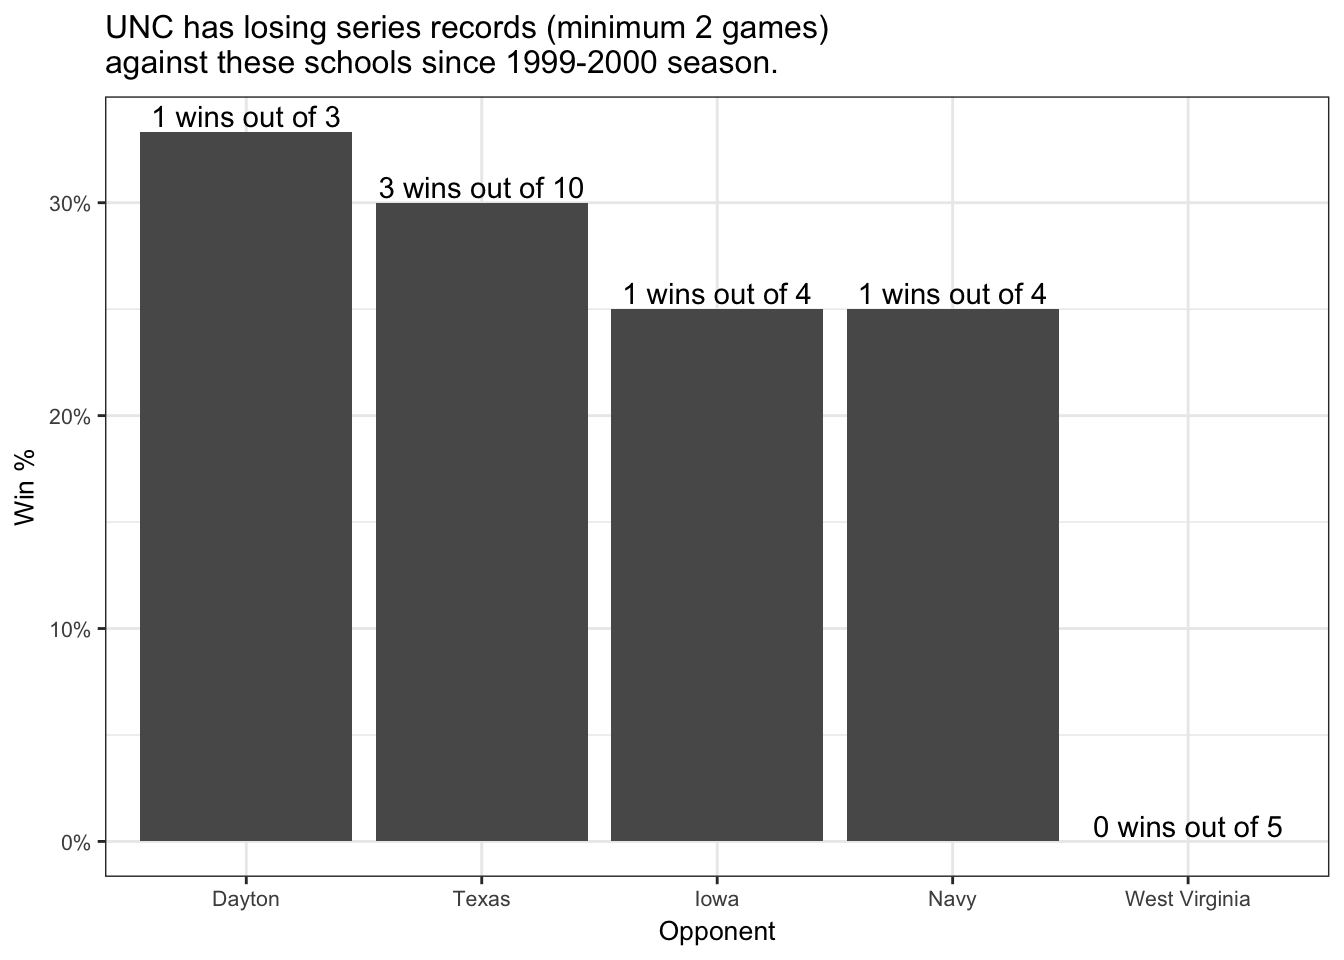
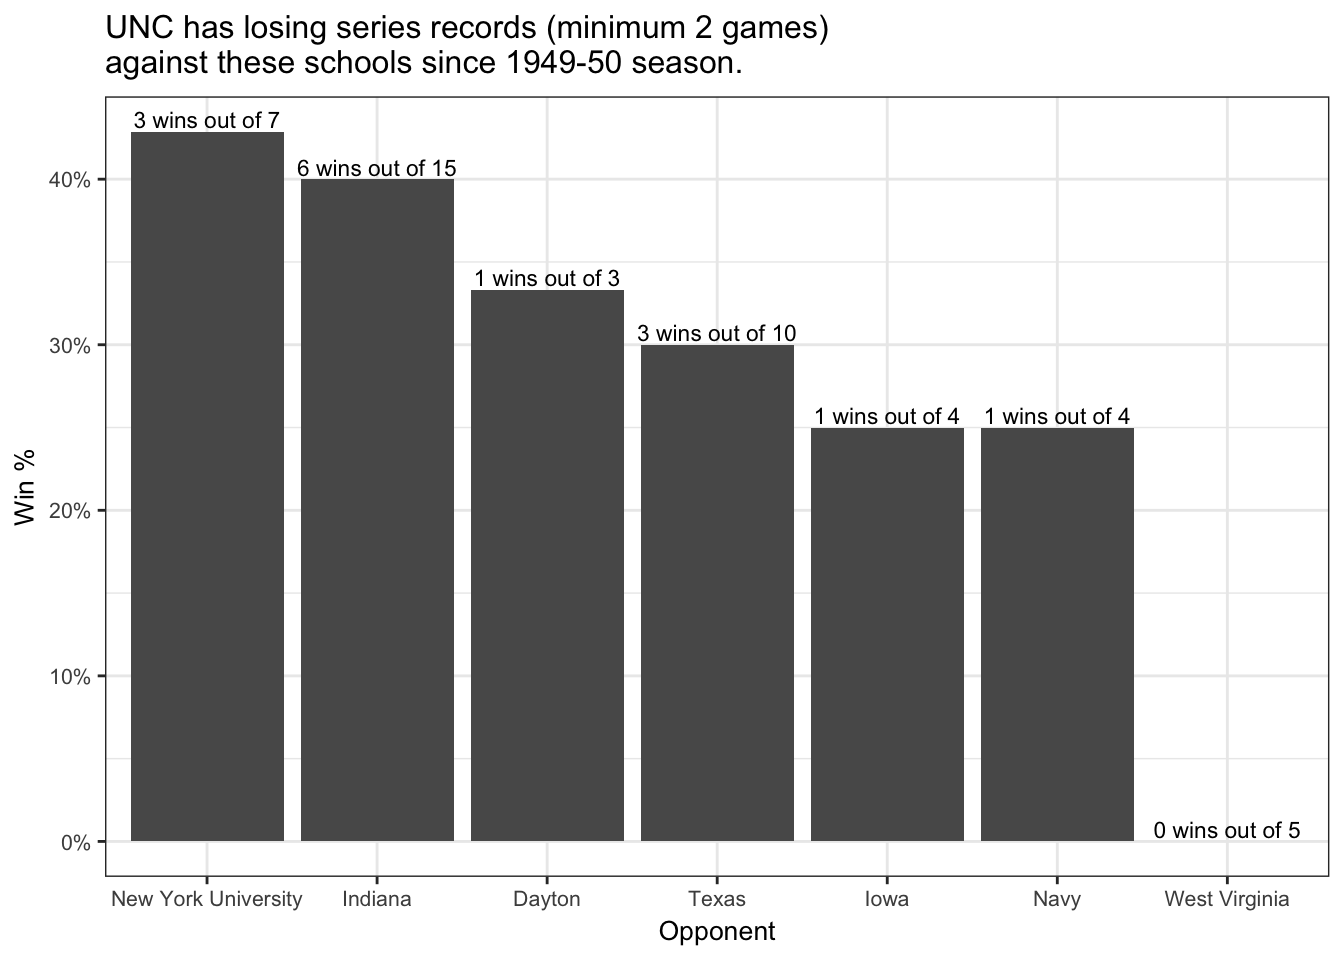
Fix to post: losing series

diff --git a/public/post/losing-series/index.html b/public/post/losing-series/index.html
@@ -133,12 +133,12 @@
 </div>
 
 
-    <br> <div class="text-justify"><p>In my first uncmbbtrivia <a href="http://uncmbbtrivia.netlify.com/post/winning-series/">post</a> last week, I looked at perfect winning series of UNC MBB team, particularly those schools that the team has never lost to since 1949-50 season (minimum of 10 games). Again, say hello to: Citadel, Rutgers, Stanford, and Tulane :)</p>
+    <br> <div class="text-justify"><p>In my first uncmbbtrivia <a href="http://uncmbbtrivia.netlify.com/post/winning-series/">post</a> last week, I looked at perfect winning series of UNC MBB team, particularly looking for those schools that the team has never lost to since 1949-50 season (minimum of 10 games). Again, say hello to: Citadel, Rutgers, Stanford, and Tulane :)</p>
 <p>This week, I look at the opposite end of the series history. Are there any schools that the UNC MBB team kept losing to? I know we haven’t been playing particularly well against Duke lately, so at least I knew depending on how far back I go that there will be some schools that we have losing series against.</p>
 <p>How about perfect losing series? I was thinking, ok there might be some schools that have winning series aginst us, but there’s no way that there’s a school that UNC MBB team never won, not even one game, having played at least some number of games.</p>
-<p>So to answer these questions, I <del>crunched some numbers</del> wrote some scripts (and I’ll write about this analysis process in near future), and below is what I got:</p>
+<p>So to answer these questions, I <del>crunched some numbers</del> wrote some scripts (and I’ll write about this analysis process in near future), and below is what I got. First I look at schools that have winning series against UNC since 1949-50 season, having played UNC at least 10 times.</p>
 <p><img src="/post/2017-10-08-losing-series_files/figure-html/since1950-1.png" width="672" /></p>
-<p>So there they are: Indiana and Texas have winning records against UNC MBB team, having played us at least 10 times since 1949-50 season. We are not playing them this upcoming season, but as we can see in the following table, the two non-ACC teams played us quite recently, so it might take a while to be on top.</p>
+<p>So there they are: Indiana and Texas have winning records against UNC, having played us at least 10 times since 1949-50 season. We are not playing them this upcoming season, but as we can see in the following table, the two non-ACC teams played us quite recently, so it might take a while to be on top. Also of note is that even though we haven’t been playing well against Duke lately, we are still on top going back to 1949-50 season.</p>
 <table class="table" style="margin-left: auto; margin-right: auto;">
 <thead>
 <tr>
@@ -292,7 +292,7 @@ Duke
 </tbody>
 </table>
 <p>And there they are: Kentucky and Duke have been relatively better than us since the beginning of the millenium, although I’d think it’s only a matter of time that we’ll be on top again in the series with Kentucky. With Duke, I’m not so sure here. Numbers look pretty bad, and it might take a while to re-gain the bragging right (ok screw it. UNC &gt; Duke always Go Heels!). I’ll have to see, but I’m pretty sure the 4 seasons from the beginning of 2005 to the end of 2009 season saved us from what could have been a total embarrassment. Much more on this awesome rivalry in the future for sure.</p>
-<p>Finally, I was wondering if there is any school that we have never won, not even once since 1949-50 season, having played at least 2 games. There shouldn’t be one, right?</p>
+<p>Finally, I was wondering if there is any school that we have never won, not even once since 1949-50 season, having played at least 2 games. It’s quite easy to do, because all I had to do was to change the variable “minimum number of games played” in the script that I used earlier. Regardless of amount of efforts involved, there shouldn’t be a school that’s having a perfect winning series against us, right?</p>
 <img src="/post/2017-10-08-losing-series_files/figure-html/perfect_losing-1.png" width="672" />
 <table class="table" style="margin-left: auto; margin-right: auto;">
 <thead>
@@ -321,6 +321,52 @@ win_perc
 </tr>
 </thead>
 <tbody>
+<tr>
+<td style="text-align:left;">
+New York University
+</td>
+<td style="text-align:left;">
+1951-01-04
+</td>
+<td style="text-align:left;">
+1966-12-17
+</td>
+<td style="text-align:right;">
+7
+</td>
+<td style="text-align:right;">
+3
+</td>
+<td style="text-align:right;">
+4
+</td>
+<td style="text-align:right;">
+0.4286
+</td>
+</tr>
+<tr>
+<td style="text-align:left;">
+Indiana
+</td>
+<td style="text-align:left;">
+1961-12-11
+</td>
+<td style="text-align:left;">
+2016-11-30
+</td>
+<td style="text-align:right;">
+15
+</td>
+<td style="text-align:right;">
+6
+</td>
+<td style="text-align:right;">
+9
+</td>
+<td style="text-align:right;">
+0.4000
+</td>
+</tr>
 <tr>
 <td style="text-align:left;">
 Dayton
@@ -438,7 +484,8 @@ West Virginia
 </tr>
 </tbody>
 </table>
-<p>Well, what do I know. It turns out we have never won against West Virginia team, having played them 5 times total since 1949-50 season! Starting years were different in two cases, but it might take even longer for UNC to get even with this team than with Duke, because there’s at least two games to be played against Duke each year, whereas it seems very unlikely that we’ll see West Virginia in schedule, considering the last time we played them was on the new years eve in 1965. But what do I know. I’m just another casual fan here, trying to dig up some gems from the UNC match history data.</p>
+<p>Well, what do I know. First of all, there are Indiana and Texas teams that I touched on in earlier part of this post (it’s sort of re-affirming to see them again in this output). Then, there go some other schools that we are having losing series records, albeit having beaten them at least once: New York University (New York University?!), Dayton, Iowa, and Navy.</p>
+<p>Then there is West Virgina. It turns out we have never won against West Virginia team, having played them 5 times total since 1949-50 season! Starting years were different in two cases, but it might take even longer for UNC to get even with this team than with Duke, because there’s at least two games to be played against Duke each year, whereas it seems very unlikely that we’ll see West Virginia in schedule, considering the last time we played them was on the new years eve in 1965. But what do I know. I’m just another casual fan here, trying to dig up some gems from the UNC match history data.</p>
 </div>
 
     

diff --git a/content/post/2017-10-08-losing-series.html b/content/post/2017-10-08-losing-series.html
@@ -10,12 +10,12 @@ draft: false
 
 
 
-<p>In my first uncmbbtrivia <a href="http://uncmbbtrivia.netlify.com/post/winning-series/">post</a> last week, I looked at perfect winning series of UNC MBB team, particularly those schools that the team has never lost to since 1949-50 season (minimum of 10 games). Again, say hello to: Citadel, Rutgers, Stanford, and Tulane :)</p>
+<p>In my first uncmbbtrivia <a href="http://uncmbbtrivia.netlify.com/post/winning-series/">post</a> last week, I looked at perfect winning series of UNC MBB team, particularly looking for those schools that the team has never lost to since 1949-50 season (minimum of 10 games). Again, say hello to: Citadel, Rutgers, Stanford, and Tulane :)</p>
 <p>This week, I look at the opposite end of the series history. Are there any schools that the UNC MBB team kept losing to? I know we haven’t been playing particularly well against Duke lately, so at least I knew depending on how far back I go that there will be some schools that we have losing series against.</p>
 <p>How about perfect losing series? I was thinking, ok there might be some schools that have winning series aginst us, but there’s no way that there’s a school that UNC MBB team never won, not even one game, having played at least some number of games.</p>
-<p>So to answer these questions, I <del>crunched some numbers</del> wrote some scripts (and I’ll write about this analysis process in near future), and below is what I got:</p>
+<p>So to answer these questions, I <del>crunched some numbers</del> wrote some scripts (and I’ll write about this analysis process in near future), and below is what I got. First I look at schools that have winning series against UNC since 1949-50 season, having played UNC at least 10 times.</p>
 <p><img src="/post/2017-10-08-losing-series_files/figure-html/since1950-1.png" width="672" /></p>
-<p>So there they are: Indiana and Texas have winning records against UNC MBB team, having played us at least 10 times since 1949-50 season. We are not playing them this upcoming season, but as we can see in the following table, the two non-ACC teams played us quite recently, so it might take a while to be on top.</p>
+<p>So there they are: Indiana and Texas have winning records against UNC, having played us at least 10 times since 1949-50 season. We are not playing them this upcoming season, but as we can see in the following table, the two non-ACC teams played us quite recently, so it might take a while to be on top. Also of note is that even though we haven’t been playing well against Duke lately, we are still on top going back to 1949-50 season.</p>
 <table class="table" style="margin-left: auto; margin-right: auto;">
 <thead>
 <tr>
@@ -169,7 +169,7 @@ Duke
 </tbody>
 </table>
 <p>And there they are: Kentucky and Duke have been relatively better than us since the beginning of the millenium, although I’d think it’s only a matter of time that we’ll be on top again in the series with Kentucky. With Duke, I’m not so sure here. Numbers look pretty bad, and it might take a while to re-gain the bragging right (ok screw it. UNC &gt; Duke always Go Heels!). I’ll have to see, but I’m pretty sure the 4 seasons from the beginning of 2005 to the end of 2009 season saved us from what could have been a total embarrassment. Much more on this awesome rivalry in the future for sure.</p>
-<p>Finally, I was wondering if there is any school that we have never won, not even once since 1949-50 season, having played at least 2 games. There shouldn’t be one, right?</p>
+<p>Finally, I was wondering if there is any school that we have never won, not even once since 1949-50 season, having played at least 2 games. It’s quite easy to do, because all I had to do was to change the variable “minimum number of games played” in the script that I used earlier. Regardless of amount of efforts involved, there shouldn’t be a school that’s having a perfect winning series against us, right?</p>
 <img src="/post/2017-10-08-losing-series_files/figure-html/perfect_losing-1.png" width="672" />
 <table class="table" style="margin-left: auto; margin-right: auto;">
 <thead>
@@ -198,6 +198,52 @@ win_perc
 </tr>
 </thead>
 <tbody>
+<tr>
+<td style="text-align:left;">
+New York University
+</td>
+<td style="text-align:left;">
+1951-01-04
+</td>
+<td style="text-align:left;">
+1966-12-17
+</td>
+<td style="text-align:right;">
+7
+</td>
+<td style="text-align:right;">
+3
+</td>
+<td style="text-align:right;">
+4
+</td>
+<td style="text-align:right;">
+0.4286
+</td>
+</tr>
+<tr>
+<td style="text-align:left;">
+Indiana
+</td>
+<td style="text-align:left;">
+1961-12-11
+</td>
+<td style="text-align:left;">
+2016-11-30
+</td>
+<td style="text-align:right;">
+15
+</td>
+<td style="text-align:right;">
+6
+</td>
+<td style="text-align:right;">
+9
+</td>
+<td style="text-align:right;">
+0.4000
+</td>
+</tr>
 <tr>
 <td style="text-align:left;">
 Dayton
@@ -315,4 +361,5 @@ West Virginia
 </tr>
 </tbody>
 </table>
-<p>Well, what do I know. It turns out we have never won against West Virginia team, having played them 5 times total since 1949-50 season! Starting years were different in two cases, but it might take even longer for UNC to get even with this team than with Duke, because there’s at least two games to be played against Duke each year, whereas it seems very unlikely that we’ll see West Virginia in schedule, considering the last time we played them was on the new years eve in 1965. But what do I know. I’m just another casual fan here, trying to dig up some gems from the UNC match history data.</p>
+<p>Well, what do I know. First of all, there are Indiana and Texas teams that I touched on in earlier part of this post (it’s sort of re-affirming to see them again in this output). Then, there go some other schools that we are having losing series records, albeit having beaten them at least once: New York University (New York University?!), Dayton, Iowa, and Navy.</p>
+<p>Then there is West Virgina. It turns out we have never won against West Virginia team, having played them 5 times total since 1949-50 season! Starting years were different in two cases, but it might take even longer for UNC to get even with this team than with Duke, because there’s at least two games to be played against Duke each year, whereas it seems very unlikely that we’ll see West Virginia in schedule, considering the last time we played them was on the new years eve in 1965. But what do I know. I’m just another casual fan here, trying to dig up some gems from the UNC match history data.</p>

diff --git a/public/post/winning-series/index.html b/public/post/winning-series/index.html
@@ -133,7 +133,7 @@
 </div>
 
 
-    <br> <div class="text-justify"><p>Here it is, the very first trivia! Frankly I was initially curious which schools have winning series against UNC and found out which (and here’s the link to that post), but to start off things on a positive note :) I’m posting which schools have never won against UNC since 1949-50 season while having played UNC at least 10 times.</p>
+    <br> <div class="text-justify"><p>Here it is, the very first trivia! Frankly I was initially curious which schools have winning series against UNC and found out which (and here’s the link to that <a href="http://uncmbbtrivia.netlify.com/post/losing-series/">post</a>), but to start off things on a positive note :) I’m posting which schools have never won against UNC since 1949-50 season while having played UNC at least 10 times.</p>
 <p><img src="/post/2017-10-01-winning-series_files/figure-html/hardest-1.png" width="1152" /></p>
 <p>There they are: Citadel, Rutgers, Stanford, and Tulane! Two of these teams are on UNC’s schedule for upcoming 2017-2018 season, so it’ll be interesting to see if UNC can keep the winning streak.</p>
 </div>

diff --git a/content/post/2017-10-01-winning-series.html b/content/post/2017-10-01-winning-series.html
@@ -10,6 +10,6 @@ draft: false
 
 
 
-<p>Here it is, the very first trivia! Frankly I was initially curious which schools have winning series against UNC and found out which (and here’s the link to that post), but to start off things on a positive note :) I’m posting which schools have never won against UNC since 1949-50 season while having played UNC at least 10 times.</p>
+<p>Here it is, the very first trivia! Frankly I was initially curious which schools have winning series against UNC and found out which (and here’s the link to that <a href="http://uncmbbtrivia.netlify.com/post/losing-series/">post</a>), but to start off things on a positive note :) I’m posting which schools have never won against UNC since 1949-50 season while having played UNC at least 10 times.</p>
 <p><img src="/post/2017-10-01-winning-series_files/figure-html/hardest-1.png" width="1152" /></p>
 <p>There they are: Citadel, Rutgers, Stanford, and Tulane! Two of these teams are on UNC’s schedule for upcoming 2017-2018 season, so it’ll be interesting to see if UNC can keep the winning streak.</p>
